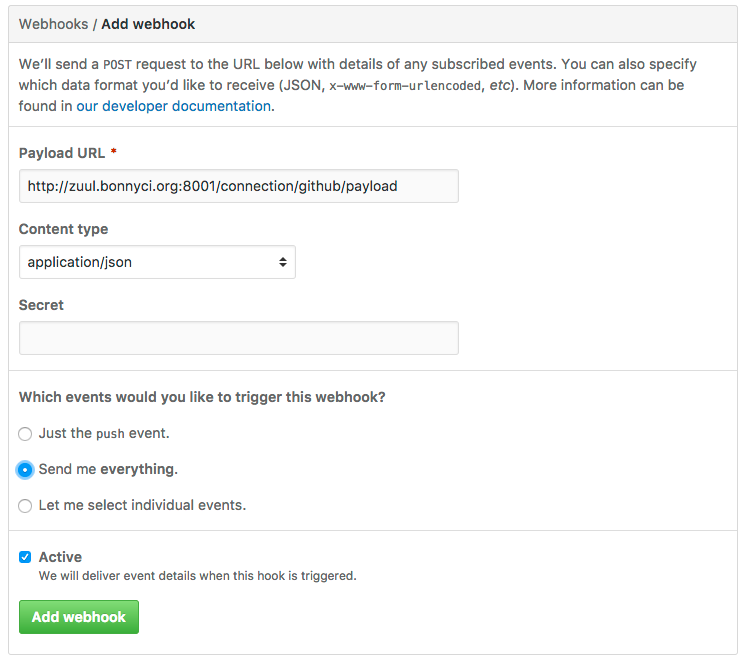
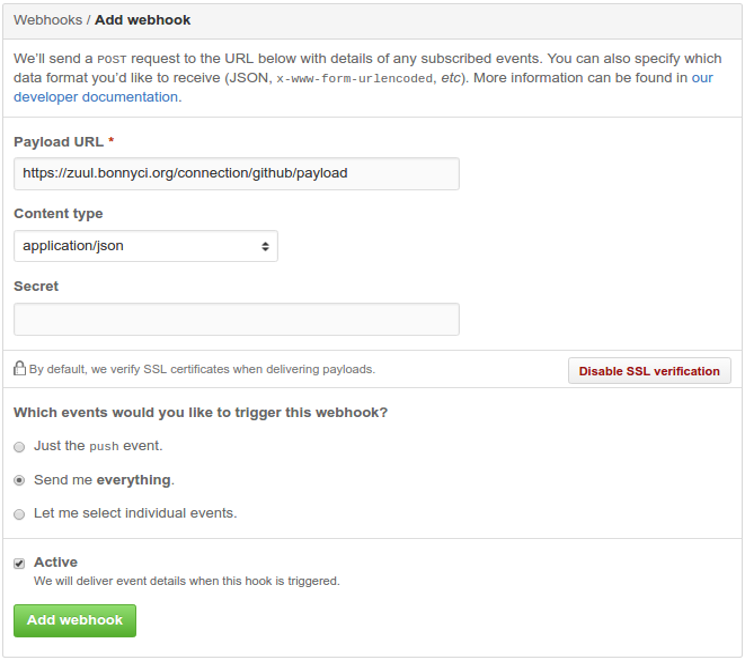
Document in-repo test running
This documents the use of the .bonnyci/run.sh script for executing
in-repo tests.

It also updates the documented webhook URL in the setup doc and image.

closes BonnyCI/projman#121

Changed region(s): [[0.0, 0.0, 1.0, 0.997], [0.3396, 0.3625, 0.4013, 0.423], [0.5866, 0.4834, 0.6174, 0.5438]]

diff --git a/lore/end_users/setup/README.md b/lore/end_users/setup/README.md
@@ -13,6 +13,7 @@ permalink: /lore/end_users/setup/
 * [Hoist Configuration](#hoist-configuration)
   * [Zuul Job Configuration](#zuul-job-configuration)
   * [Zuul Layout Configuration](#zuul-layour-configuration)
+* [Project Test Configuration](#project-test-configuration)
 * [Merge Options](#merge-options)
   * [Setting the Correct Merge Option](#setting-the-correct-merge-option)
 
@@ -27,7 +28,7 @@ For more on organizations and teams, check out the [Github documentation](https:
 The next step to getting BonnyCI into your repository is to add the BonnyCI webhook. This is to notify BonnyCI of events taking place in your repository, such as newly opened pull requests. Navigate to your repository's settings page, click on the `Webhooks` section in the left-hand menu, and click the `Add webhook` button to the right. Paste the following link into the `Payload URL` item:
 
 ```webhook
-http://zuul.bonnyci.org:8001/connection/github/payload
+https://zuul.bonnyci.org/connection/github/payload
 ```
 
 Ensure the `Content Type` dropdown is set to `application/json`, the `Send me everything.` radio button is selected, and the `Active` box is checked. Once this is done, click the green `Add webhook` button to finish. Here is a sample of what the settings will look like:
@@ -38,28 +39,9 @@ Ensure the `Content Type` dropdown is set to `application/json`, the `Send me ev
 
 We'll need some configuration changes in [hoist](https://github.com/BonnyCI/hoist) for your project to gain the necessary Zuul testing queues. Follow our [contribution lore](https://github.com/BonnyCI/lore/tree/master/developers/contributing) for getting these files updated.
 
-### Zuul Job Configuration
-
-This file will add a definition for what tests to run on your repository with BonnyCI. Place it in `hoist/roles/zuul/files/jobs/repo_name.yaml`. Here is a sample configuration:
-
-```YAML
-- job:
-    name: unique_job_name
-    node: 'ubuntu-xenial'
-
-    builders:
-      - zuul-git-prep
-      - shell: |
-          #!/bin/bash -xe
-          ./path/to/script/in/your/repo.sh
-
-    publishers:
-      - console-log
-```
-
 ### Zuul Layout Configuration
 
-Now that we have defined what tests will run on your project, we need to ensure that BonnyCI will actually run them. Edit `hoist/roles/zuul/templates/etc/zuul/config/layout.yaml` and add an entry in the `projects:` list for your project. Ensure it is in alphabetical order. Here is a sample configuration:
+We need to add your project to the list of projects that will be sending webhook events to BonnyCI. Edit `hoist/roles/zuul/templates/etc/zuul/config/layout.yaml` and add an entry in the `projects:` list for your project. Ensure it is in alphabetical order. Here is a sample configuration:
 
 ```YAML
 projects:
@@ -67,12 +49,24 @@ projects:
 
   - name: unique_job_name
     check_github:
-      - name_of_job_config_file
+      - bonncy-run-check
     gate_github:
-      - name_of_job_config_file
+      - bonncy-run-gate
 
   ...
 ```
+
+Create a pull request to the [hoist](https://github.com/BonnyCI/hoist) project on Github that contains this change.  A BonnyCI administrator will review the change and merge it into the production BonnyCI configuration.
+
+## Project Test Configuration
+
+Projects are free to define their tests and test suites within their repository provided it contains a known entry point for BonnyCI to use to begin the execution.  When BonnyCI begins a test run, it will first prepare a checkout of the git repository that contains the proposed change.  It will then attempt to execute a script located at ``./bonnyci/run.sh`` and consider a exit code of ``0`` as a successful test and anything other than ``0`` as a failed test.  If the repository does not contain ``./bonnyci/run.sh`` or it is not executable, the test run will fail. Users are free to customize ``./bonnyci/run.sh`` in any way they choose.
+
+This script is run to execute tests in both the check and gate pipelines.  If you'd like to differentiate the test runs between the different pipelines, check the setting of the ``BONNYCI_TEST_PIPELINE`` variable, which will be set to ``check`` or ``gate``, respsectively.
+
+By default, the console output of all test runs is collected and archived for viewing after the test run has completed.  If there are additional log files generated by your tests that you would like to also archive, your ``.bonnyci/run.sh`` script may copy them into a known location and they will be archived as well.  This directory will be specified in the ``BONNYCI_TEST_LOG_DIR`` environment variabel.  The console log and any additional logs stored in this directory are archived regardless of the result of the test run itself.
+
+Check out an example .bonnyci/run.sh script [here](examples/example_bonnyci_run.md).
 
 ## Merge Options
 

diff --git a/lore/end_users/setup/examples/example_bonnyci_run.md b/lore/end_users/setup/examples/example_bonnyci_run.md
@@ -1,0 +1,83 @@
+---
+name: example_bonnyci_run
+layout: default
+permalink: /lore/end_users/setup/examples/example_bonnyci_run
+---
+
+# Example .bonnyci/run.sh script
+
+The following is a contrived example of a ``.bonnyci/run.sh`` entry point for executing tests within a Python project repository managed by BonnyCI.  This script will be executed from the root of the source tree for test runs in both the check and gate pipelines.  In this example, we will want to run a different set of tests for each pipeline and archive test debug logs to the BonnyCI log server for post-run inspection.
+
+```shell
+#!/bin/bash -xe
+
+# Running bash with set -e is a good idea!
+
+function install_required_packages() {
+    # Ensure the Ubuntu VM our tests are running on has the correct package
+    # requirements installed for tests.
+    sudo apt-get -y install virtualenv
+}
+
+
+function setup_virtualenv() {
+    # Creates a python virtual environment and installs any requirements
+    # that may be listed in requirements files.
+    venv_dir="$(mktemp -d)"
+    virtualenv $venv_dir
+    source $venv_dir/bin/activate
+    if [ -f requirements.txt ]; then
+        pip install -r requirements.txt
+    fi
+    if [ -f test-requirements.txt ]; then
+        pip install -r test-requirements.txt
+    fi
+}
+
+
+function run_unit_tests() {
+    # Run the unit test suite with nose.  Log verbose output to the console,
+    # which by default will be logged and archived by BonnyCI.
+    nosetests -v ./tests/unit/
+}
+
+
+function run_functional_tests() {
+    # Run our fictional functional test suite, specifying the log directory as
+    # the output dir for its debug logs.
+    python ./tests/functional/run_functional.py --log-dir=$BONNYCI_TEST_LOG_DIR
+}
+
+
+function run_coverage() {
+    # Run a coverage report, logged to the console.
+    python setup.py testr --coverage
+}
+
+
+function build_docs() {
+    # Build our in-tree documentation and archive its output
+    python setup.py build_sphinx
+    mkdir $BONNYCI_LOG_DIR/docs/
+    cp -r doc/build/* $BONNYCI_LOG_DIR/docs/
+}
+
+
+install_required_packages
+setup_virtualenv
+
+echo "Running $BONNYCI_TEST_PIPELINE tests..."
+
+case "$BONNYCI_TEST_PIPELINE" in
+    "check")
+        run_unit_tests
+        run_converage
+    "gate")
+        run_unit_tests
+        run_coverage
+        run_functional_tests
+        build_docs
+esac
+
+exit 0
+```
